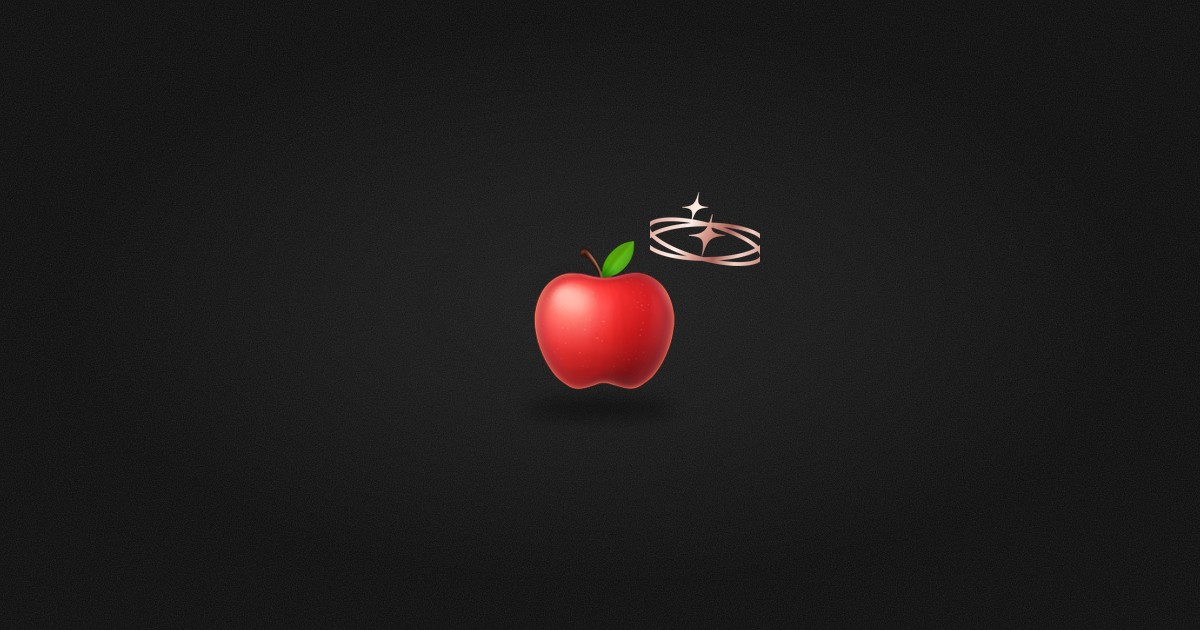
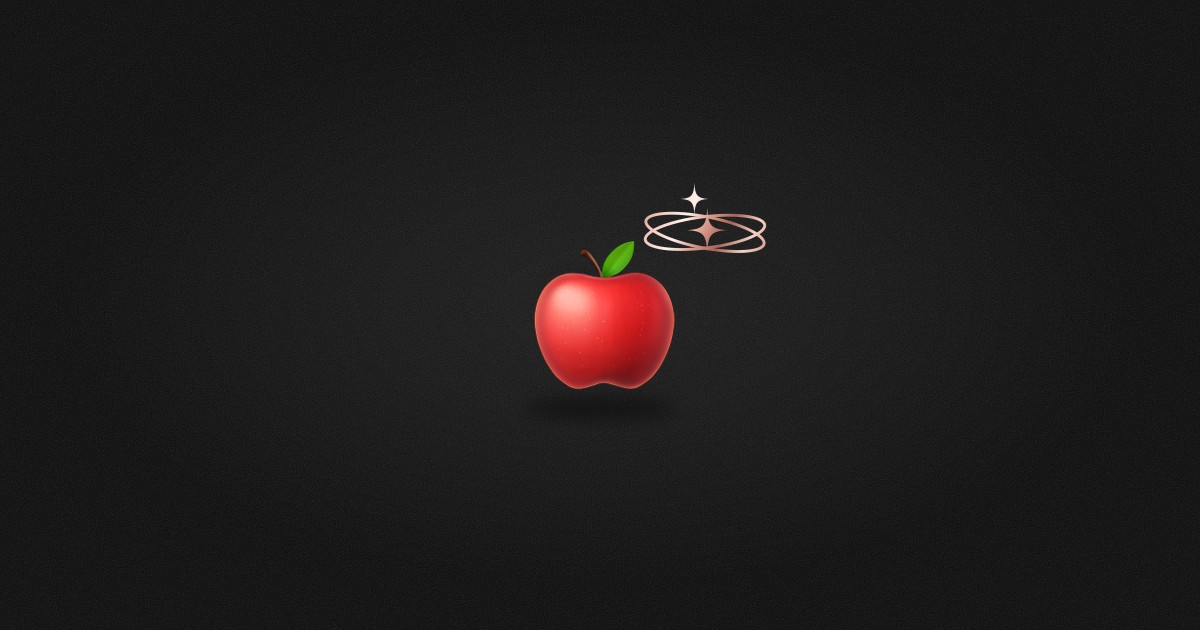
Full-orbit Kineship mark as a vector

Changed region(s): [[0.5242, 0.3016, 0.6475, 0.4222]]

diff --git a/src/index.css b/src/index.css
@@ -694,6 +694,6 @@ div[data-event-type="blood-moon-rising"] h1.blood-moon-title {
     #c7887b 100%
   );
   filter: drop-shadow(0 0.5px 0.5px rgba(80, 30, 20, 0.35));
-  -webkit-mask: url('/icons/kineship-mark.png') center / contain no-repeat;
-  mask: url('/icons/kineship-mark.png') center / contain no-repeat;
+  -webkit-mask: url('/icons/kineship-mark.svg') center / contain no-repeat;
+  mask: url('/icons/kineship-mark.svg') center / contain no-repeat;
 }
